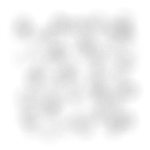
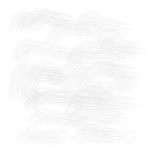
Added polish to fog effect, redoing graphics and part of movement; various other tweaks around weather and minimalistic ui

diff --git a/IceBlink2/ScreenMainMap.cs b/IceBlink2/ScreenMainMap.cs
@@ -466,24 +466,28 @@ namespace IceBlink2
                 int iLimit = 0;
                 if (gv.fogType.Contains("lightFog") || gv.fogType.Contains("LightFog"))
                 {
-                    iLimit = 4;
+                    iLimit = 6;
                 }
                 else if (gv.fogType.Contains("heavyFog") || gv.fogType.Contains("HeavyFog"))
                 {
-                    iLimit = 8;
+                    iLimit = 10;
                 }
                 else if (gv.fogType.Contains("fog") || gv.fogType.Contains("Fog"))
                 {
-                    iLimit = 6;
+                    iLimit = 8;
                 }
 
                 for (int i = 0; i < iLimit; i++)
                 {
+
+                    positionModifierX = 0;
+                    positionModifierY = 0;
+
                     if (i == 0)
                     {
                         layerType = "fog1";
                         decider = gv.sf.RandInt(20);
-                        speedMultiplier = 0.55f + (decider / 100f);
+                        speedMultiplier = 0.50f + (decider / 100f);
                         positionModifierX = (-4) * gv.squareSize;
                     }
                         
@@ -491,7 +495,7 @@ namespace IceBlink2
                     {
                         layerType = "fog2";
                         decider = gv.sf.RandInt(50);
-                        speedMultiplier += 0.05f;
+                        speedMultiplier += 0.04f;
                         positionModifierX = (4) * gv.squareSize;
                     }
 
@@ -499,7 +503,7 @@ namespace IceBlink2
                     {
                         layerType = "fog3";
                         decider = gv.sf.RandInt(50);
-                        speedMultiplier += 0.05f;
+                        speedMultiplier += 0.04f;
                         positionModifierX = (2) * gv.squareSize;
                         positionModifierY = (2) * gv.squareSize;
                     }
@@ -508,7 +512,7 @@ namespace IceBlink2
                     {
                         layerType = "fog4";
                         decider = gv.sf.RandInt(50);
-                        speedMultiplier += 0.05f;
+                        speedMultiplier += 0.04f;
                         positionModifierX = (-2) * gv.squareSize;
                         positionModifierY = (-2) * gv.squareSize;
                     }
@@ -517,7 +521,7 @@ namespace IceBlink2
                     {
                         layerType = "fog5";
                         decider = gv.sf.RandInt(50);
-                        speedMultiplier += 0.05f;
+                        speedMultiplier += 0.04f;
                         positionModifierX = (-6) * gv.squareSize;
                        
                     }
@@ -526,15 +530,15 @@ namespace IceBlink2
                     {
                         layerType = "fog6";
                         decider = gv.sf.RandInt(50);
-                        speedMultiplier += 0.05f;
+                        speedMultiplier += 0.04f;
                         positionModifierX = 6 * gv.squareSize;
 
                     }
                     if (i == 6)
                     {
-                        layerType = "fog5";
+                        layerType = "fog7";
                         decider = gv.sf.RandInt(50);
-                        speedMultiplier += 0.05f;
+                        speedMultiplier += 0.04f;
                         positionModifierX = (-1) * gv.squareSize;
                         positionModifierY = (-1) * gv.squareSize;
 
@@ -542,14 +546,32 @@ namespace IceBlink2
 
                     if (i == 7)
                     {
-                        layerType = "fog6";
+                        layerType = "fog8";
                         decider = gv.sf.RandInt(50);
-                        speedMultiplier += 0.05f;
-                        positionModifierX = gv.squareSize;
-                        positionModifierY = gv.squareSize;
+                        speedMultiplier += 0.04f;
+                        positionModifierX = (-3) * gv.squareSize;
+                        positionModifierY = (-3) * gv.squareSize;
                     }
 
-                    gv.cc.createFog(layerType, speedMultiplier, positionModifierX, positionModifierY);
+                    if (i == 8)
+                    {
+                        layerType = "fog1";
+                        decider = gv.sf.RandInt(50);
+                        speedMultiplier += 0.04f;
+                        positionModifierX = (3) * gv.squareSize;
+                        positionModifierY = (3) * gv.squareSize;
+                    }
+
+                    if (i == 9)
+                    {
+                        layerType = "fog2";
+                        decider = gv.sf.RandInt(50);
+                        speedMultiplier += 0.04f;
+                        positionModifierX = (-5) * gv.squareSize;
+                       
+                    }
+
+                    gv.cc.createFog(layerType, speedMultiplier, positionModifierX - 1.8f * gv.squareSize, positionModifierY);
                     }
                 }
 
@@ -877,9 +899,14 @@ namespace IceBlink2
                 drawFloatyTextByPixelPool();
             }
 
+            //drawSprites();
+            //drawTopFullScreenEffects();
 
             if (!mod.currentArea.areaDark)
             {
+                drawFogOfWar();
+                drawSprites();
+                drawTopFullScreenEffects();
                 bool hideOverlayNeeded = false;
                 if (mod.currentArea.UseDayNightCycle)
                 {
@@ -892,10 +919,11 @@ namespace IceBlink2
                     drawBlackTilesOverTints();
                     hideOverlayNeeded = false;
                 }
-                drawFogOfWar();
-            }            
-            drawSprites();
-            drawTopFullScreenEffects();
+                //drawFogOfWar();
+            } 
+           
+            //drawSprites();
+            //drawTopFullScreenEffects();
             
             if ((showClock) && (!hideClock))
             {
@@ -25765,7 +25793,7 @@ namespace IceBlink2
 
             foreach (Sprite spr in spriteList)
             {
-                if (!spr.movementMethod.Contains("rain") && !spr.movementMethod.Contains("snow"))
+                if (!spr.movementMethod.Contains("rain") && !spr.movementMethod.Contains("snow") && !spr.movementMethod.Contains("sandStorm"))
                 {
                     spr.Draw(gv);
                 }

diff --git a/IceBlink2/CommonCode.cs b/IceBlink2/CommonCode.cs
@@ -2196,7 +2196,7 @@ namespace IceBlink2
             {
                 doWeather();
             }
-            //script hook for full screen effects on channels 1 to 4 
+            //script hook for full screen effects on channels 1 to 4 (also called in doTransitionBasedOnAreaLocation)
             doChannelScripts();
             //do weather sounds
             if (gv.mod.currentArea.areaWeatherName != "")
@@ -2446,7 +2446,7 @@ namespace IceBlink2
                 }
 
                 //like fog
-                if (spr.movementMethod.Contains("fog"))
+                if (movesAsBumper)
                 {
                     spr.velocity.X = -spr.velocity.X;
                     spr.velocity.Y = -spr.velocity.Y;
@@ -6026,7 +6026,7 @@ namespace IceBlink2
                     storedIncrement += increment;
                     if (gv.sf.RandInt(100) < rainChance)
                     {
-                        Sprite spr = new Sprite(gv, "rainDrop", storedIncrement - (gv.squareSize/2), -(float)(gv.sf.RandInt(10)), (float)(gv.sf.RandInt(5) + 35) / 650f, (float)(gv.sf.RandInt(80) + 170) / 650f, 0, 0, 0.18f* 0.75f, 0.335f * 0.75f, gv.sf.RandInt(10000) + 6000, false, 100, gv.mod.fullScreenEffectOpacityWeather, 0, "rain", false, 0);
+                        Sprite spr = new Sprite(gv, "rainDrop", storedIncrement - (gv.squareSize/2), -(float)(gv.sf.RandInt(10)), (float)(gv.sf.RandInt(5) + 35) / 650f, (float)(gv.sf.RandInt(80) + 170) / 500f, 0, 0, 0.18f* 0.65f, 0.335f * 0.73f, gv.sf.RandInt(10000) + 6000, false, 100, gv.mod.fullScreenEffectOpacityWeather, 0, "rain", false, 0);
                         gv.screenMainMap.spriteList.Add(spr);
                     }
                 }
@@ -6275,8 +6275,8 @@ namespace IceBlink2
 
         public void createFog(string fogType, float speedMultiplier, float positionModifierX, float positionModifierY)
         {
-            float veloX = 0.01f + gv.sf.RandInt(40)/40000f;
-            float veloY = 0.01f + gv.sf.RandInt(40)/40000f;
+            float veloX = 0.012f + gv.sf.RandInt(20)/40000f;
+            float veloY = 0.012f + gv.sf.RandInt(20)/40000f;
 
             int decider = gv.sf.RandInt(2);
             if (decider == 1)
@@ -6290,7 +6290,7 @@ namespace IceBlink2
                 veloY = veloY * -1;
             }
 
-            Sprite spr = new Sprite(gv, fogType, gv.screenWidth / 2 - gv.screenHeight / 2 + positionModifierX, gv.screenHeight / 2 - gv.screenHeight / 2 + positionModifierY, veloX * speedMultiplier, veloY * speedMultiplier, 0, 0, 10f,10f, gv.sf.RandInt(80000) + 48000, false, 100, gv.mod.fullScreenEffectOpacityWeather, 0, "fog", false, 0);
+            Sprite spr = new Sprite(gv, fogType, gv.screenWidth / 2 - gv.screenHeight / 2 + positionModifierX, gv.screenHeight / 2 - gv.screenHeight / 2 + positionModifierY, veloX * speedMultiplier * 0.7f, veloY * speedMultiplier * 0.7f, 0, 0, 14.5f,14.5f, gv.sf.RandInt(80000) + 48000, false, 100, gv.mod.fullScreenEffectOpacityWeather, 0, "fog", false, 0);
             gv.screenMainMap.spriteList.Add(spr);
         }
 

diff --git a/IceBlink2/IB2HtmlLogBox.cs b/IceBlink2/IB2HtmlLogBox.cs
@@ -88,14 +88,9 @@ namespace IceBlink2
             float xLoc = 0;
             float yLoc = 3.0f;
             int maxLines = 0;
-            if (gv.mod.useMinimalisticUI)
-            {
-                maxLines = currentTopLineIndex + numberOfLinesToShow - 2;
-            }
-            else
-            {
-                maxLines = currentTopLineIndex + numberOfLinesToShow;
-            }
+            
+            maxLines = currentTopLineIndex + numberOfLinesToShow;
+            
             if (maxLines > logLinesList.Count) { maxLines = logLinesList.Count; }
             for (int i = currentTopLineIndex; i < maxLines; i++)
             {

diff --git a/IceBlink2/Sprite.cs b/IceBlink2/Sprite.cs
@@ -114,7 +114,7 @@ namespace IceBlink2
                 position += velocity * elapsed;
                 gv.cc.transformSpritePixelPositionOnContactWithVisibleMainMapBorders(this, 0.5f, false, true, 0);
                 opacity = gv.mod.fullScreenEffectOpacityWeather;
-
+           
             }
             else if (movementMethod == "rain")
             {
